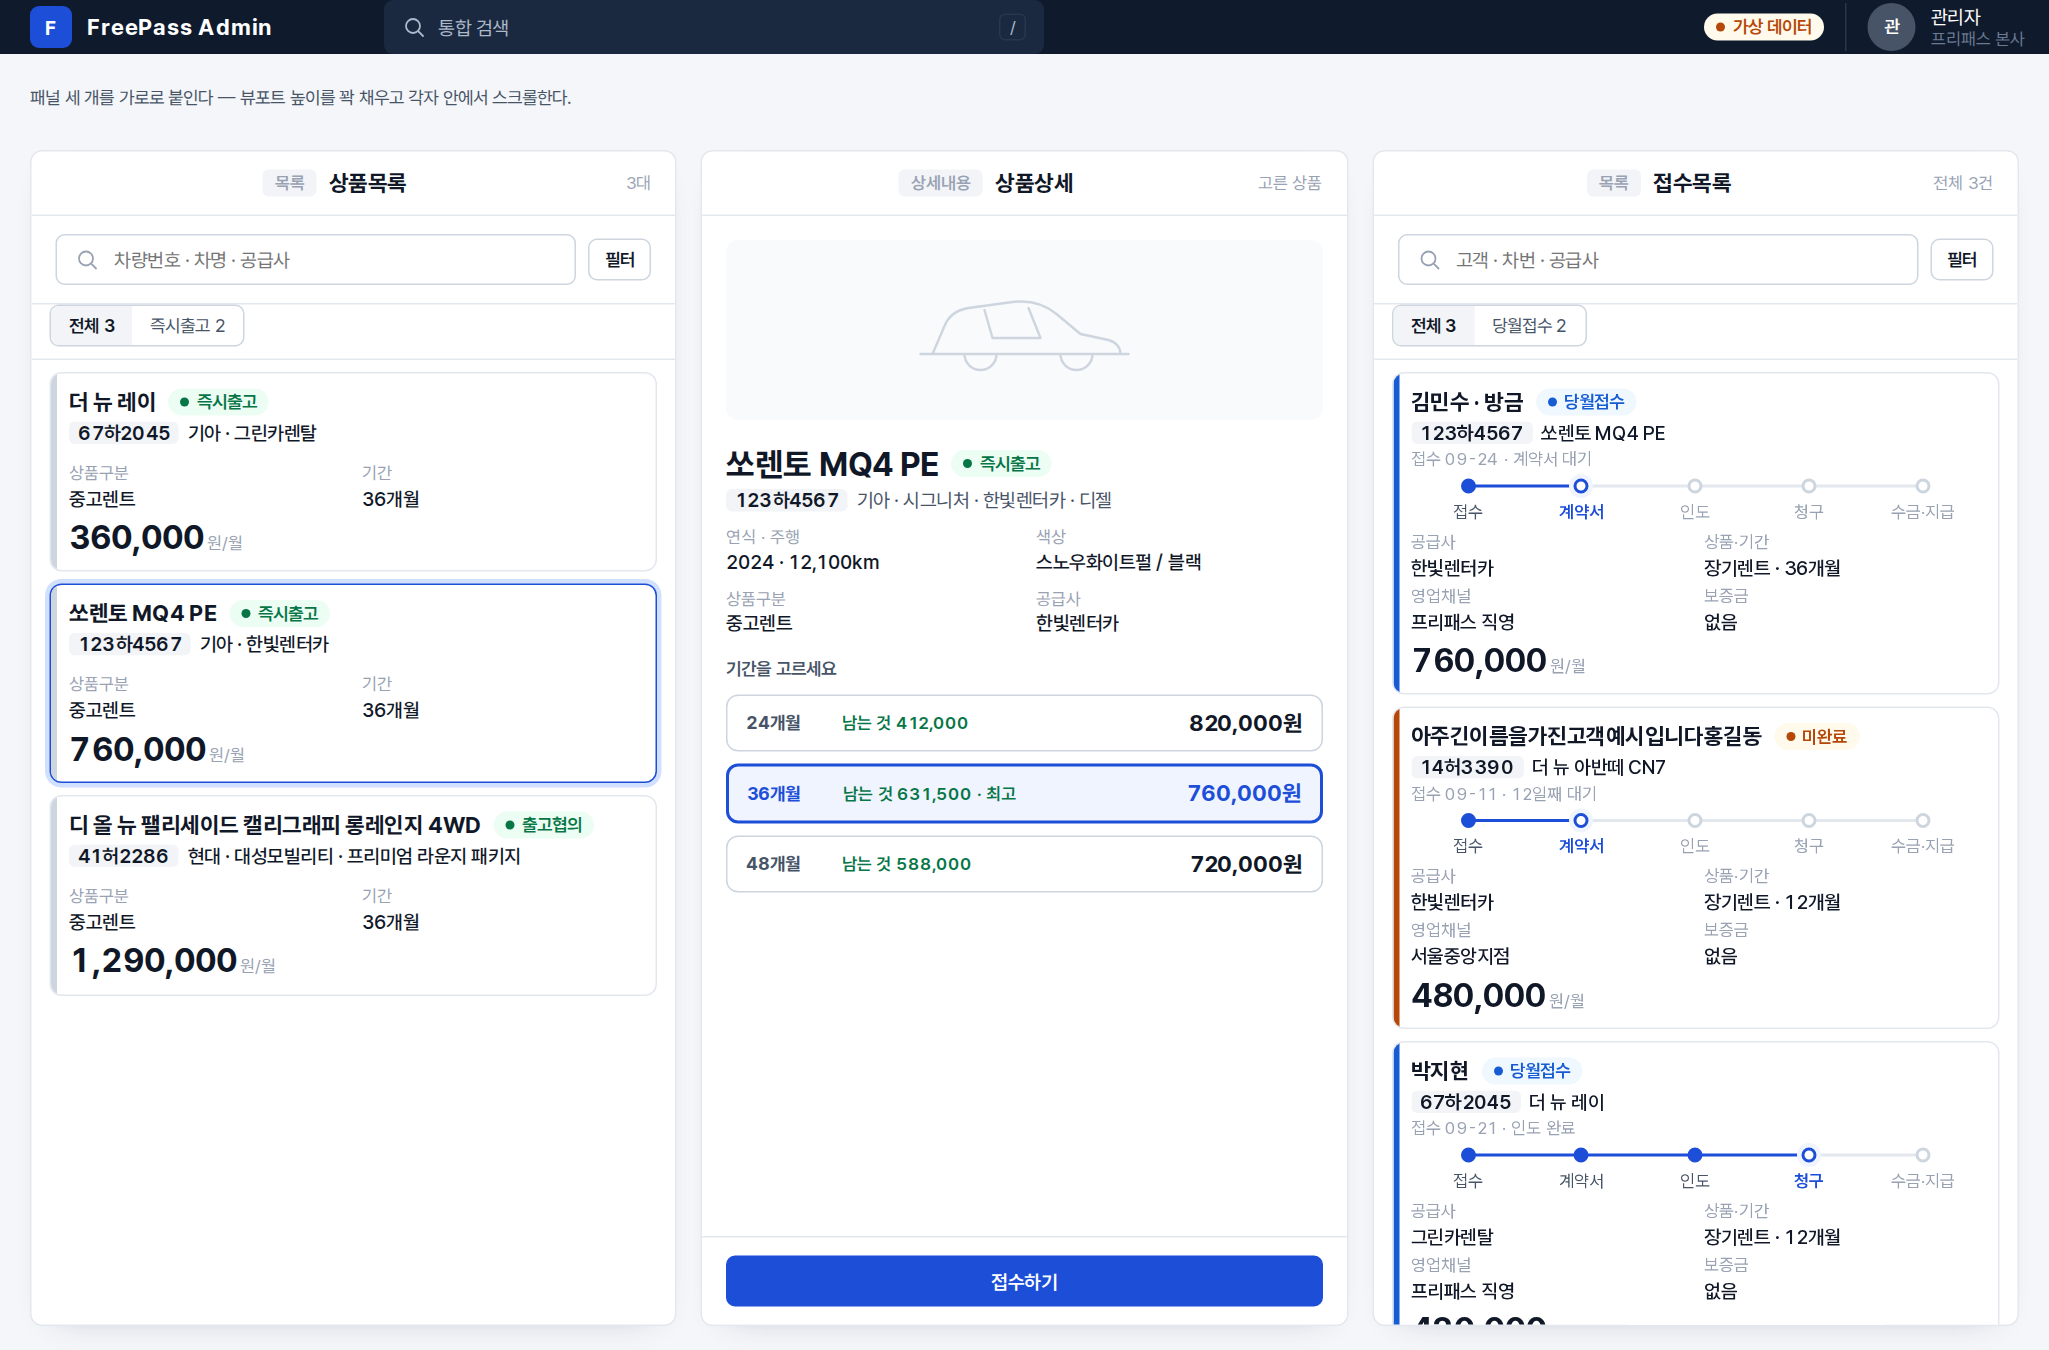
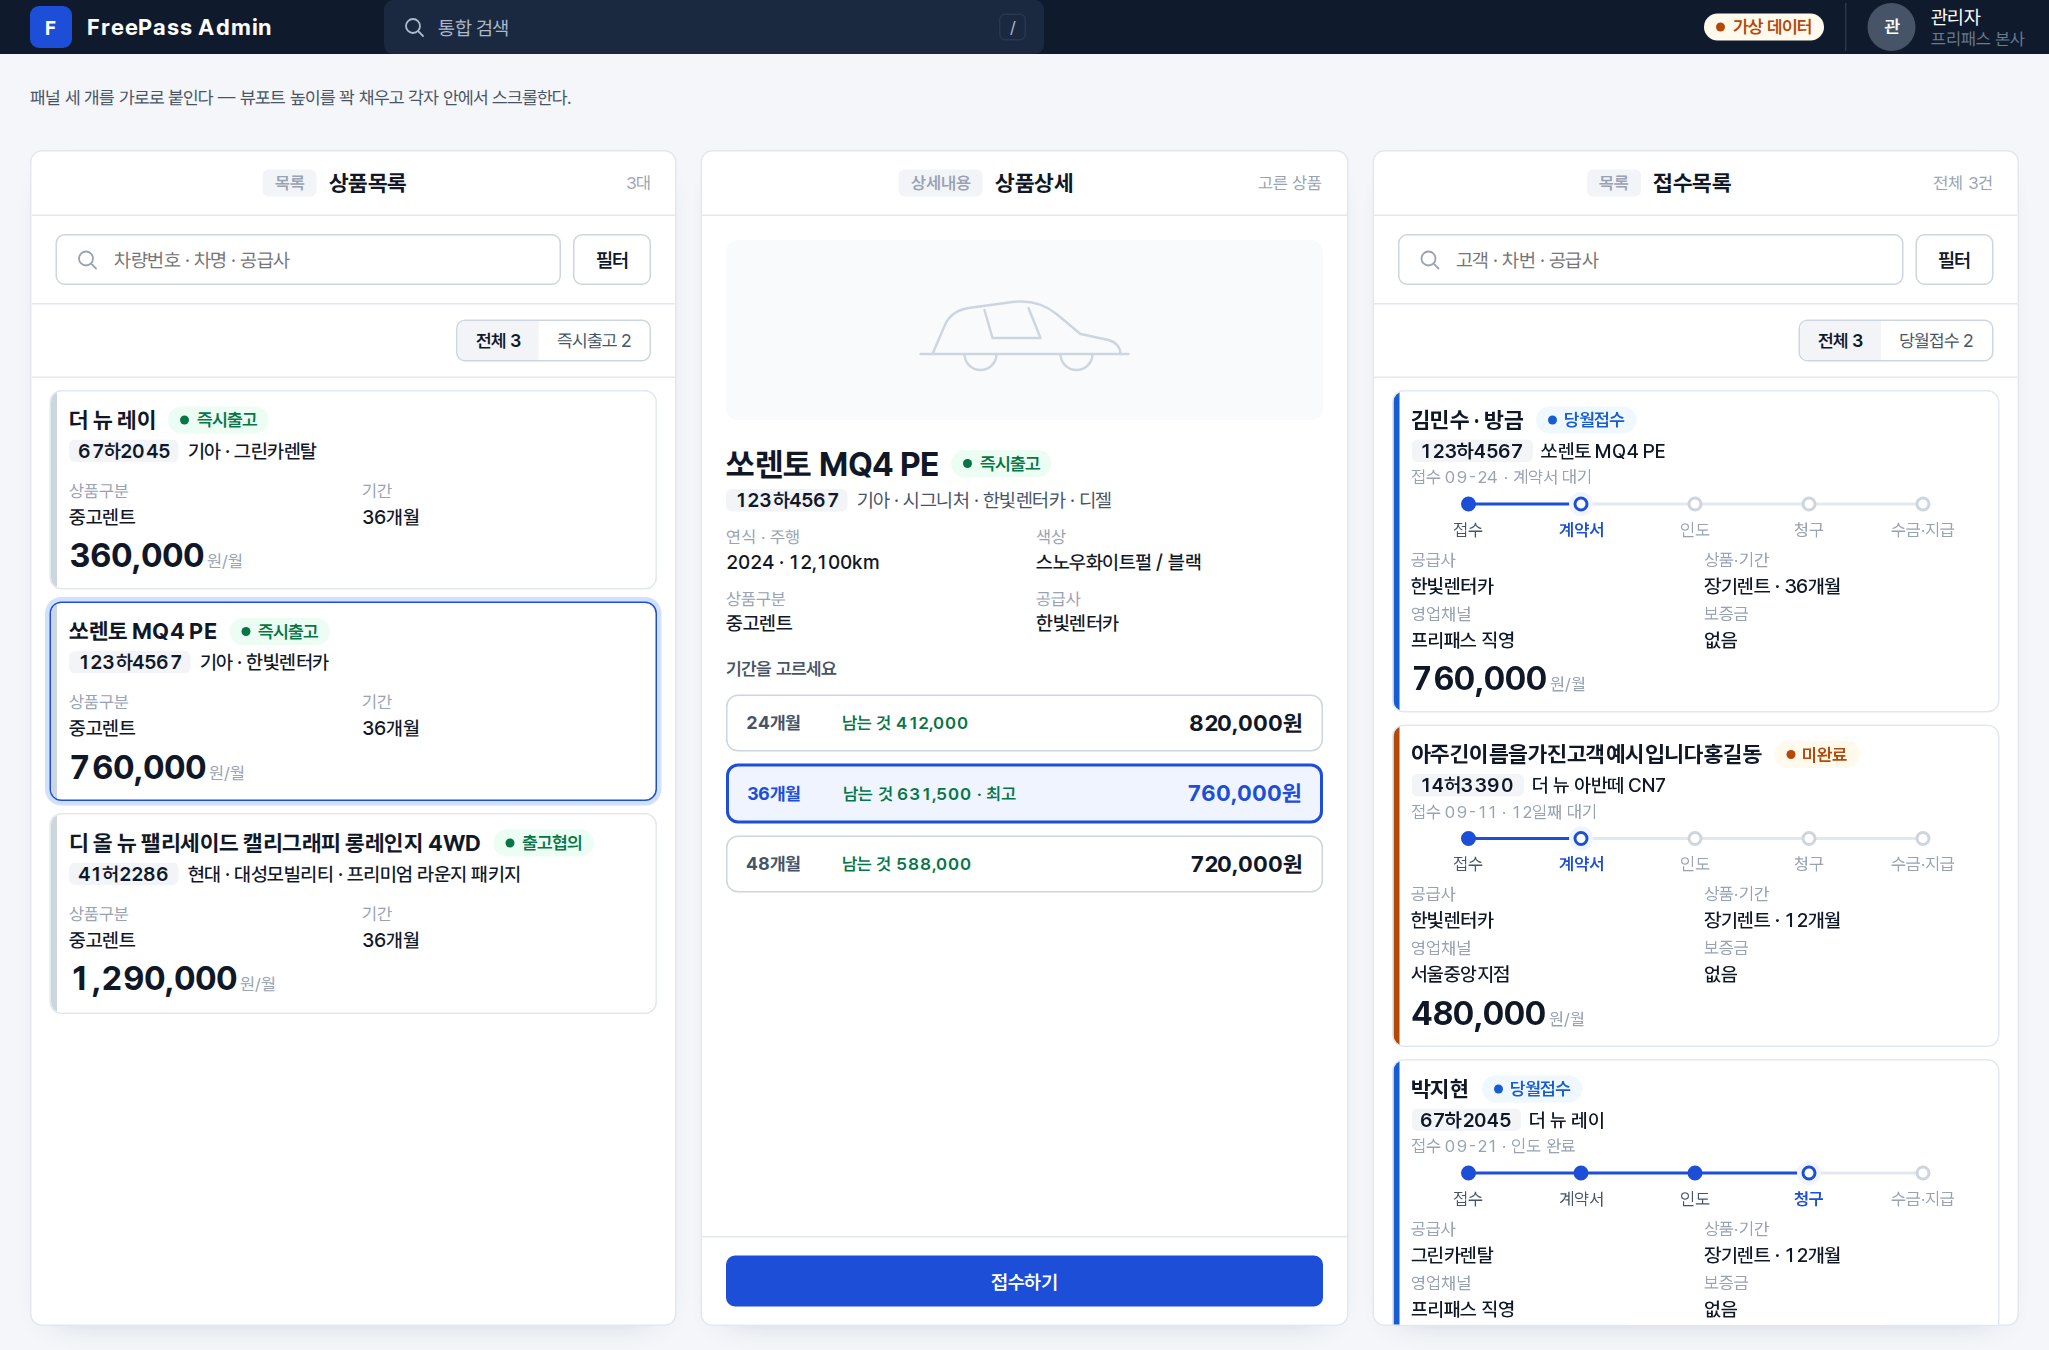
필터 버튼 · 툴바 규격 이탈 수정 + 목록 카드 vs 상세 패널 내용 구분 규칙 명문화
필터 버튼을 erp-btn--sm(28px)으로 줄여 옆 검색창(34px)과 높이가 안 맞던 것,
퀵 필터 줄(erp-toolbar) 패딩을 인라인으로 줄여 표준 위아래 리듬이 깨졌던 것을
platform/intake-cards.html 원안 그대로 되돌렸다 — 패널이 좁아져도 버튼 · 툴바
규격 자체는 바뀌지 않는다, 바뀌는 건 카드 레이아웃(erp-panel--compact)뿐.

대표 지시 「카드 목록에는 현재 상태를, 디테일은 상세 패널에」를 §5-4에 규칙으로
추가 — 목록 카드는 뱃지 · 진행 단계 · 최소 식별 정보까지만, 깊은 정보(연식 ·
색상 · 우대조건 등)는 상세내용 패널로 미룬다.

Claude-Session: https://claude.ai/code/session_01VHqvSXhUy82o1cFFrYMP3F

diff --git a/design/erp-standard/reference/side-by-side.html b/design/erp-standard/reference/side-by-side.html
@@ -28,8 +28,8 @@
 <main class="sbs-main" data-region="grid">
   <section class="erp-panel erp-panel--compact">
     <div class="erp-panel-head"><span class="erp-panel-kind">목록</span><h2>상품목록</h2><span>3대</span></div>
-    <form class="erp-searchbar" data-region="filter" role="search"><label class="erp-search"><svg viewBox="0 0 24 24"><circle cx="11" cy="11" r="7"/><path d="m21 21-4.3-4.3"/></svg><input placeholder="차량번호 · 차명 · 공급사" aria-label="검색"></label><details class="erp-filter-more"><summary class="erp-btn erp-btn--sm">필터</summary></details></form>
-    <div class="erp-toolbar" data-region="grid-toolbar" style="padding:0 var(--erp-sp-3) var(--erp-sp-2)"><div class="erp-seg" role="group" aria-label="퀵 필터"><button type="button" aria-pressed="true">전체 3</button><button type="button" aria-pressed="false">즉시출고 2</button></div></div>
+    <form class="erp-searchbar" data-region="filter" role="search"><label class="erp-search"><svg viewBox="0 0 24 24"><circle cx="11" cy="11" r="7"/><path d="m21 21-4.3-4.3"/></svg><input placeholder="차량번호 · 차명 · 공급사" aria-label="검색"></label><details class="erp-filter-more"><summary class="erp-btn">필터</summary></details></form>
+    <div class="erp-toolbar" data-region="grid-toolbar"><span class="erp-toolbar-spacer"></span><div class="erp-seg" role="group" aria-label="퀵 필터"><button type="button" aria-pressed="true">전체 3</button><button type="button" aria-pressed="false">즉시출고 2</button></div></div>
     <div class="erp-panel-body"><div class="erp-rowcards"><article class="erp-rowcard erp-rowcard--no-steps">
     <div class="erp-rowcard-id"><h3 class="erp-rowcard-title"><a class="erp-rowcard-link" href="#">더 뉴 레이</a><span class="erp-badge erp-badge--ok">즉시출고</span></h3><div class="erp-rowcard-car"><b>67하2045</b>기아 · 그린카렌탈</div></div>
     <dl class="erp-rowcard-facts"><div><dt>상품구분</dt><dd>중고렌트</dd></div><div><dt>기간</dt><dd>36개월</dd></div></dl>
@@ -73,8 +73,8 @@
 
   <section class="erp-panel erp-panel--compact">
     <div class="erp-panel-head"><span class="erp-panel-kind">목록</span><h2>접수목록</h2><span>전체 3건</span></div>
-    <form class="erp-searchbar" data-region="filter" role="search"><label class="erp-search"><svg viewBox="0 0 24 24"><circle cx="11" cy="11" r="7"/><path d="m21 21-4.3-4.3"/></svg><input placeholder="고객 · 차번 · 공급사" aria-label="검색"></label><details class="erp-filter-more"><summary class="erp-btn erp-btn--sm">필터</summary></details></form>
-    <div class="erp-toolbar" data-region="grid-toolbar" style="padding:0 var(--erp-sp-3) var(--erp-sp-2)"><div class="erp-seg" role="group" aria-label="퀵 필터"><button type="button" aria-pressed="true">전체 3</button><button type="button" aria-pressed="false">당월접수 2</button></div></div>
+    <form class="erp-searchbar" data-region="filter" role="search"><label class="erp-search"><svg viewBox="0 0 24 24"><circle cx="11" cy="11" r="7"/><path d="m21 21-4.3-4.3"/></svg><input placeholder="고객 · 차번 · 공급사" aria-label="검색"></label><details class="erp-filter-more"><summary class="erp-btn">필터</summary></details></form>
+    <div class="erp-toolbar" data-region="grid-toolbar"><span class="erp-toolbar-spacer"></span><div class="erp-seg" role="group" aria-label="퀵 필터"><button type="button" aria-pressed="true">전체 3</button><button type="button" aria-pressed="false">당월접수 2</button></div></div>
     <div class="erp-panel-body"><div class="erp-rowcards"><article class="erp-rowcard" data-tone="info">
     <div class="erp-rowcard-id"><h3 class="erp-rowcard-title"><a class="erp-rowcard-link" href="#">김민수 · 방금</a><span class="erp-badge erp-badge--info">당월접수</span></h3><div class="erp-rowcard-car"><b>123하4567</b>쏘렌토 MQ4 PE</div><div class="erp-rowcard-meta">접수 09-24 · 계약서 대기</div></div>
     <ol class="erp-rowcard-steps" aria-label="진행"><li data-state="done"><i></i>접수</li><li aria-current="step"><i></i>계약서</li><li><i></i>인도</li><li><i></i>청구</li><li><i></i>수금·지급</li></ol>

diff --git a/design/erp-standard/README.md b/design/erp-standard/README.md
@@ -147,7 +147,15 @@
 패널 폭이 좁으므로 세로로 쌓는 변형을 쓴다). **상세내용 패널** = 고른 한 건의 상세(사진 · `erp-props` · 기간 등) + 액션.
 쓰는 화면(상품상세 → 접수)에서는 상세내용 패널 안의 「접수하기」 를 누르면 **같은 패널이 그 자리에서 접수 작성 면으로 뒤집힌다**
 (`erp-panel--flip`) — 취소하면 도로 뒤집히고, 저장하면 그 옆 접수목록 패널에 반영된다. 폭이 좁은 창 · 폰에서는 패널 하나가
-화면 하나가 되어 뎁스(‹ 뒤로)로 쌓인다.
+화면 하나가 되어 뎁스(‹ 뒤로)로 쌓인다. 꼭 있어야 하는 버튼(「접수하기」 등)은 몸 안에 넣지 않고 `erp-panel-foot`
+(패널 바닥에 고정, 스크롤과 무관)에 둔다.
+
+**목록 카드 vs 상세내용 패널 — 보여줄 내용 구분** (대표 2026-09-24 「카드 목록에는 너무 디테일을 보여주기보다는
+현재 상태를 보여주면 돼 … 상세 패널에 보여줄 거와 목록 카드에 보여줄 거는 좀 구분을 확실히」). **목록 카드는 지금 상태를
+한눈에 판단하는 자리다** — 뱃지(현재 상태) · 진행 단계(§5-5 `-steps`) · 골라내는 데 필요한 최소 식별 정보(누구 ·
+무슨 차 · 공급사 정도)까지만 싣는다. **연식 · 주행거리 · 색상 · 우대조건 · 정책처럼 값을 판단하거나 작업할 때만 필요한
+깊은 정보는 카드에 넣지 않고 상세내용 패널로 미룬다** — 상세내용 패널만 `erp-props` 로 그 정보를 편다. 목록 카드를
+고칠 때마다 "이게 상태 판단에 필요한가, 상세 작업에만 필요한가"로 가른다.
 
 ## 5-5. 목록 카드 — 대상별 규격 (FreePass Admin, 대표 2026-09-24)
 
@@ -240,6 +248,14 @@
 형제로 `erp-panel-foot`를 둔다 — `flex: none` 이라 내용이 길어 스크롤돼도 버튼은 패널 바닥에 그대로 붙어 있다.
 §5-4 새 부품으로 추가(`erp.css` `.erp-panel-foot`). 확인: [reference/side-by-side.html](reference/side-by-side.html)
 의 상품상세 패널 — 기간 목록을 스크롤해도 「접수하기」는 항상 보인다.
+
+**버튼 · 배지 규격과 위아래 간격 정리** (대표 2026-09-24 「필터 버튼도 버튼이잖아 … 배지 규격 · 버튼 규격 · 상하 간격이
+되게 중요한 것 같아」). `side-by-side.html`에 두 군데 규격 이탈이 있었다 — 목록 패널의 「필터」 버튼을 `erp-btn--sm`
+(28px)으로 줄여서 옆 `erp-search` 검색창(34px, `--erp-btn-h`)과 높이가 안 맞았고, 퀵 필터 줄(`erp-toolbar`)의
+위아래 패딩을 인라인으로 줄여 §5-1 표준 리듬(`padding: 10px var(--erp-sp-4)` + 아래 선)이 깨졌다. 두 군데 다
+`platform/intake-cards.html` 원안 그대로(필터 버튼 = 기본 `erp-btn`, 툴바 = 인라인 오버라이드 없이 기본 패딩)로
+되돌렸다 — 패널 폭이 좁아졌다고 버튼 · 툴바 규격 자체를 바꾸면 안 된다, 바뀌는 건 카드 레이아웃(`erp-panel--compact`)뿐.
+배지(`erp-badge`)는 애초에 커스텀 CSS 없이 표준 클래스만 썼으므로 규격 이탈이 없었다.
 
 ## 6. ERP 공통 동작 규칙
 
